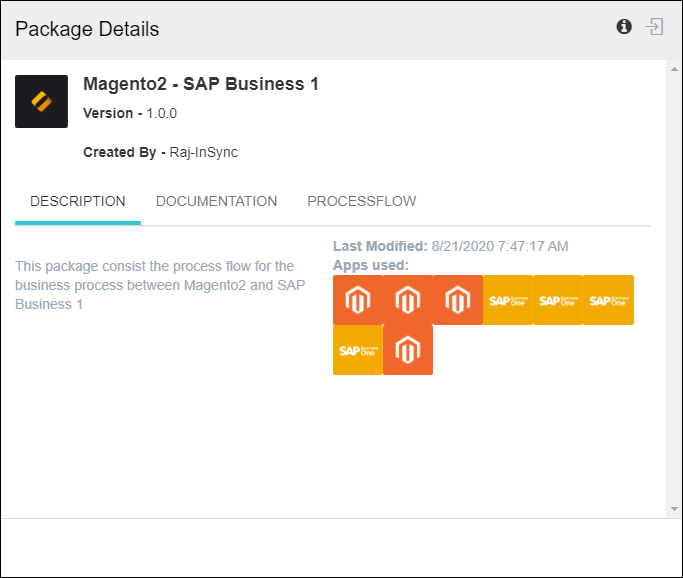
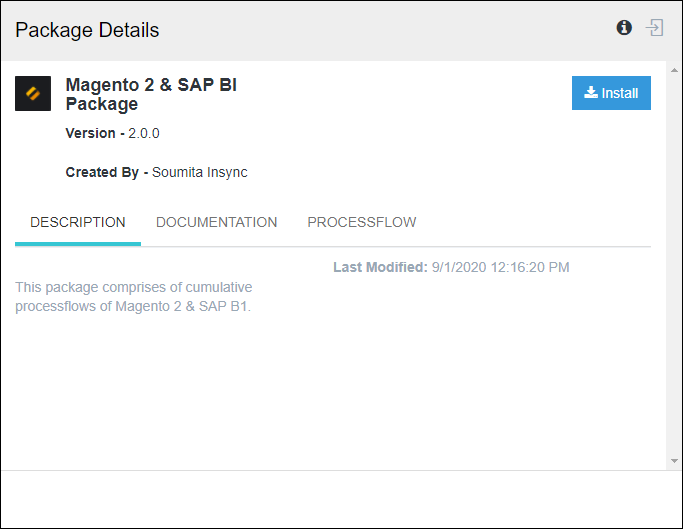
update

diff --git a/_posts/ProcessFlow Management/Packaging Process Flows/2020-08-14-processflow-packaging.md b/_posts/ProcessFlow Management/Packaging Process Flows/2020-08-14-processflow-packaging.md
@@ -96,7 +96,7 @@ Now you have done creating your packages, and you can view the packages listed u
 To View a specific Package,  click View option available on the Contextual menu of the Package.
 ![package-edit-view](\staticfiles\processflow\media\package-edit-view.png)
 
-The following window appears where you can view the package details along with 
+The following pop up appears where you can view the package details along with 
 three specific tabs namely - Description, Documentation, Process Flow.
 ![package-view-detail](\staticfiles\processflow\media\package-view-detail.png)
 
@@ -104,7 +104,10 @@ The `View Package` window offers you with the following package information
 
 **Package Name** - Package name information was provided during Package creation.   
 **Version** -  Version information was provided during Package creation.  
-**Created by** - This indicates the Organization name of the user who created the Package.  
+**Created by** - This indicates the Organization name of the user who created the Package.   
+**Install** - This button enables to install the package. You can install the package from `My Package -> View Package-> Install` option & Also 
+from `Shared with Me -> Package-> Install` section. [View here](/processflow/processflow-package-installation/) 
+for installation details
 
 The tab details are mentioned below:  
 **Description Tab** - This section provides you the package description along with the view of application
@@ -132,10 +135,11 @@ created. You can edit any Package available in Package Library section.
    of the documentation.
 
 After doing the changes, the User will be able to save the changes by clicking on the Save button.
-If the user clicks on the Cancel button, the changes will not be saved.
-**Note: (a) You will be able to view the Package Documentation within the Editor, during Edit mode.
-(b) Preview option is available in the editor to view the changes.
-(c) In Edit mode, you will not be able to view or edit the Process Flow(s) present in a Package**
+If the user clicks on the Cancel button, the changes will not be saved.  
+
+**Note: (a) You will be able to view the Package Documentation within the Editor, during Edit mode.  
+(b) Preview option is available in the editor to view the changes.  
+(c) In Edit mode, you will not be able to view or edit the Process Flow(s) present in a Package**  
 
 
 
